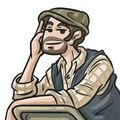
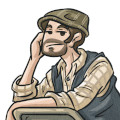
Animate header image of me on hover

diff --git a/src/_scss/_utilities.scss b/src/_scss/_utilities.scss
@@ -15,7 +15,10 @@
 .margin-block-end-relative-md { margin-block-end: var(--space-relative-md) }
 .margin-inline-end-auto { margin-inline-end: auto }
 
-.shape-circle { border-radius: 50% }
+.shape-circle {
+  border-radius: 50%;
+  overflow: hidden;
+}
 
 .pad-block-fluid-lg { padding-block: var(--space-fluid-lg) }
 .pad-block-relative-md { padding-block: var(--space-relative-md) }

diff --git a/src/_scss/global/_base.scss b/src/_scss/global/_base.scss
@@ -35,6 +35,15 @@ body {
     // FIXME: Should this be a design token? Set with a utility class instead?
     max-height: 3em;
   }
+
+  > header a[href='/'] {
+    background-image: url('/img/evan-alt.jpg');
+    background-size: cover;
+
+    &:hover > * {
+      opacity: 0;
+    }
+  }
 }
 
 footer svg {
